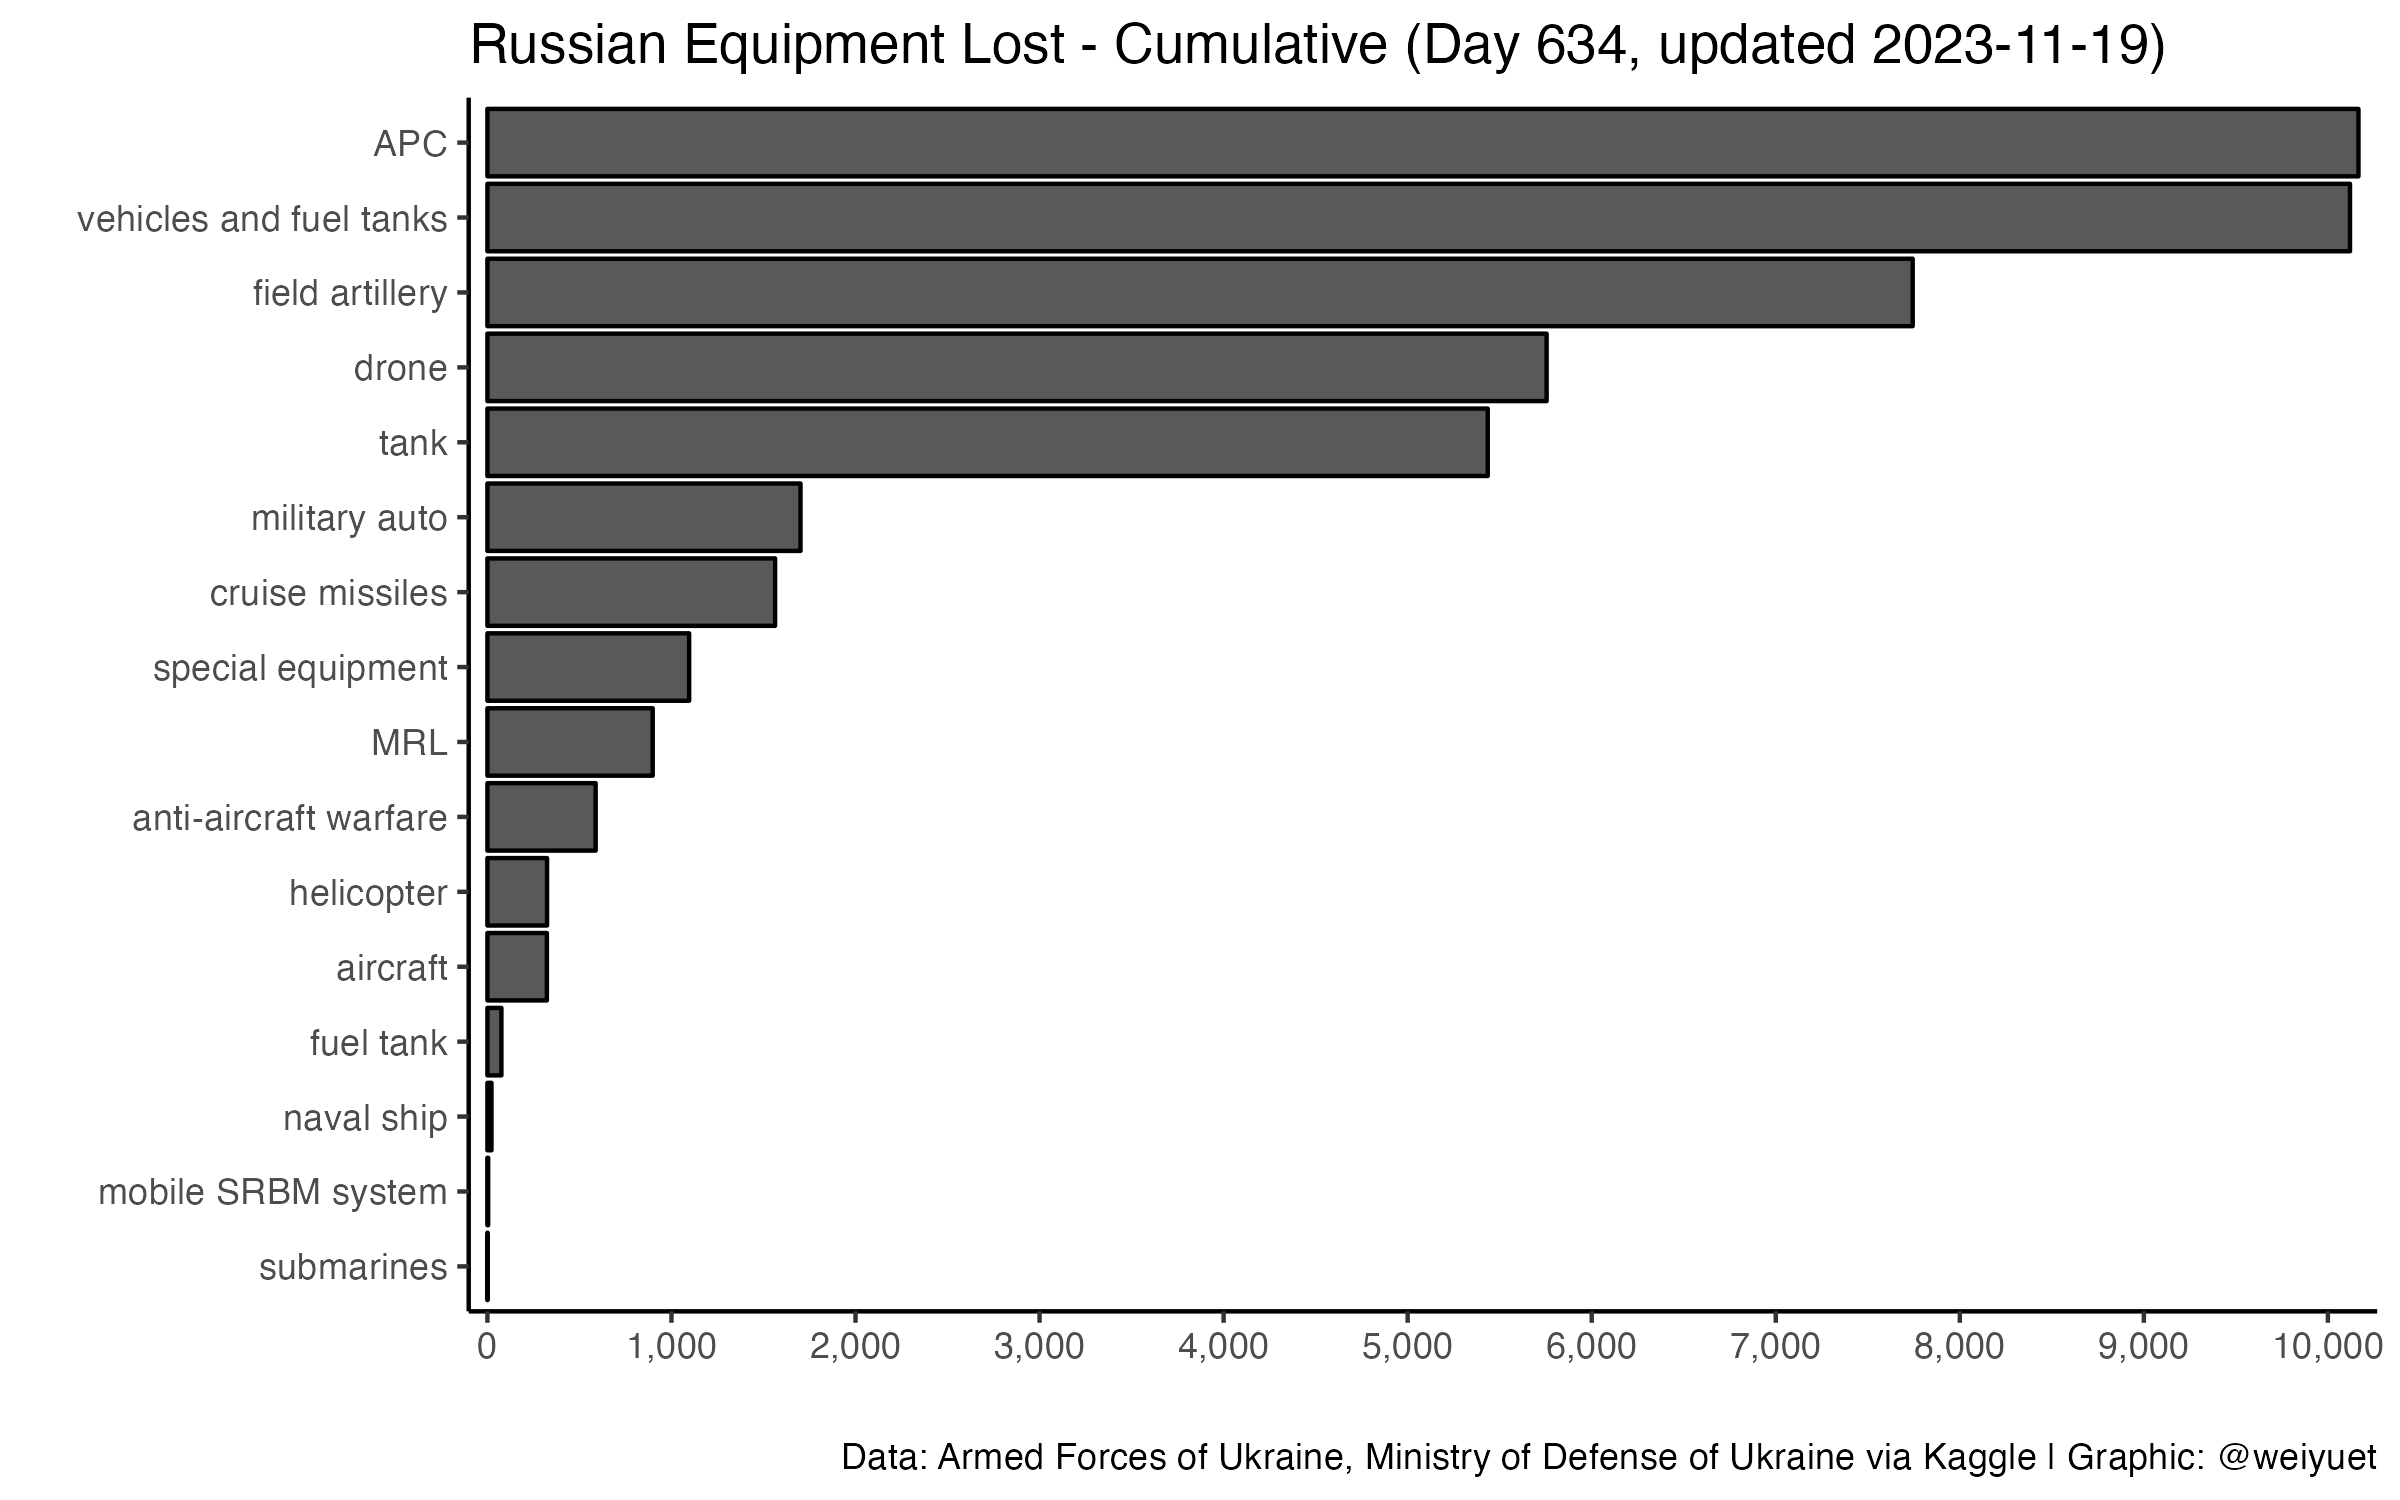
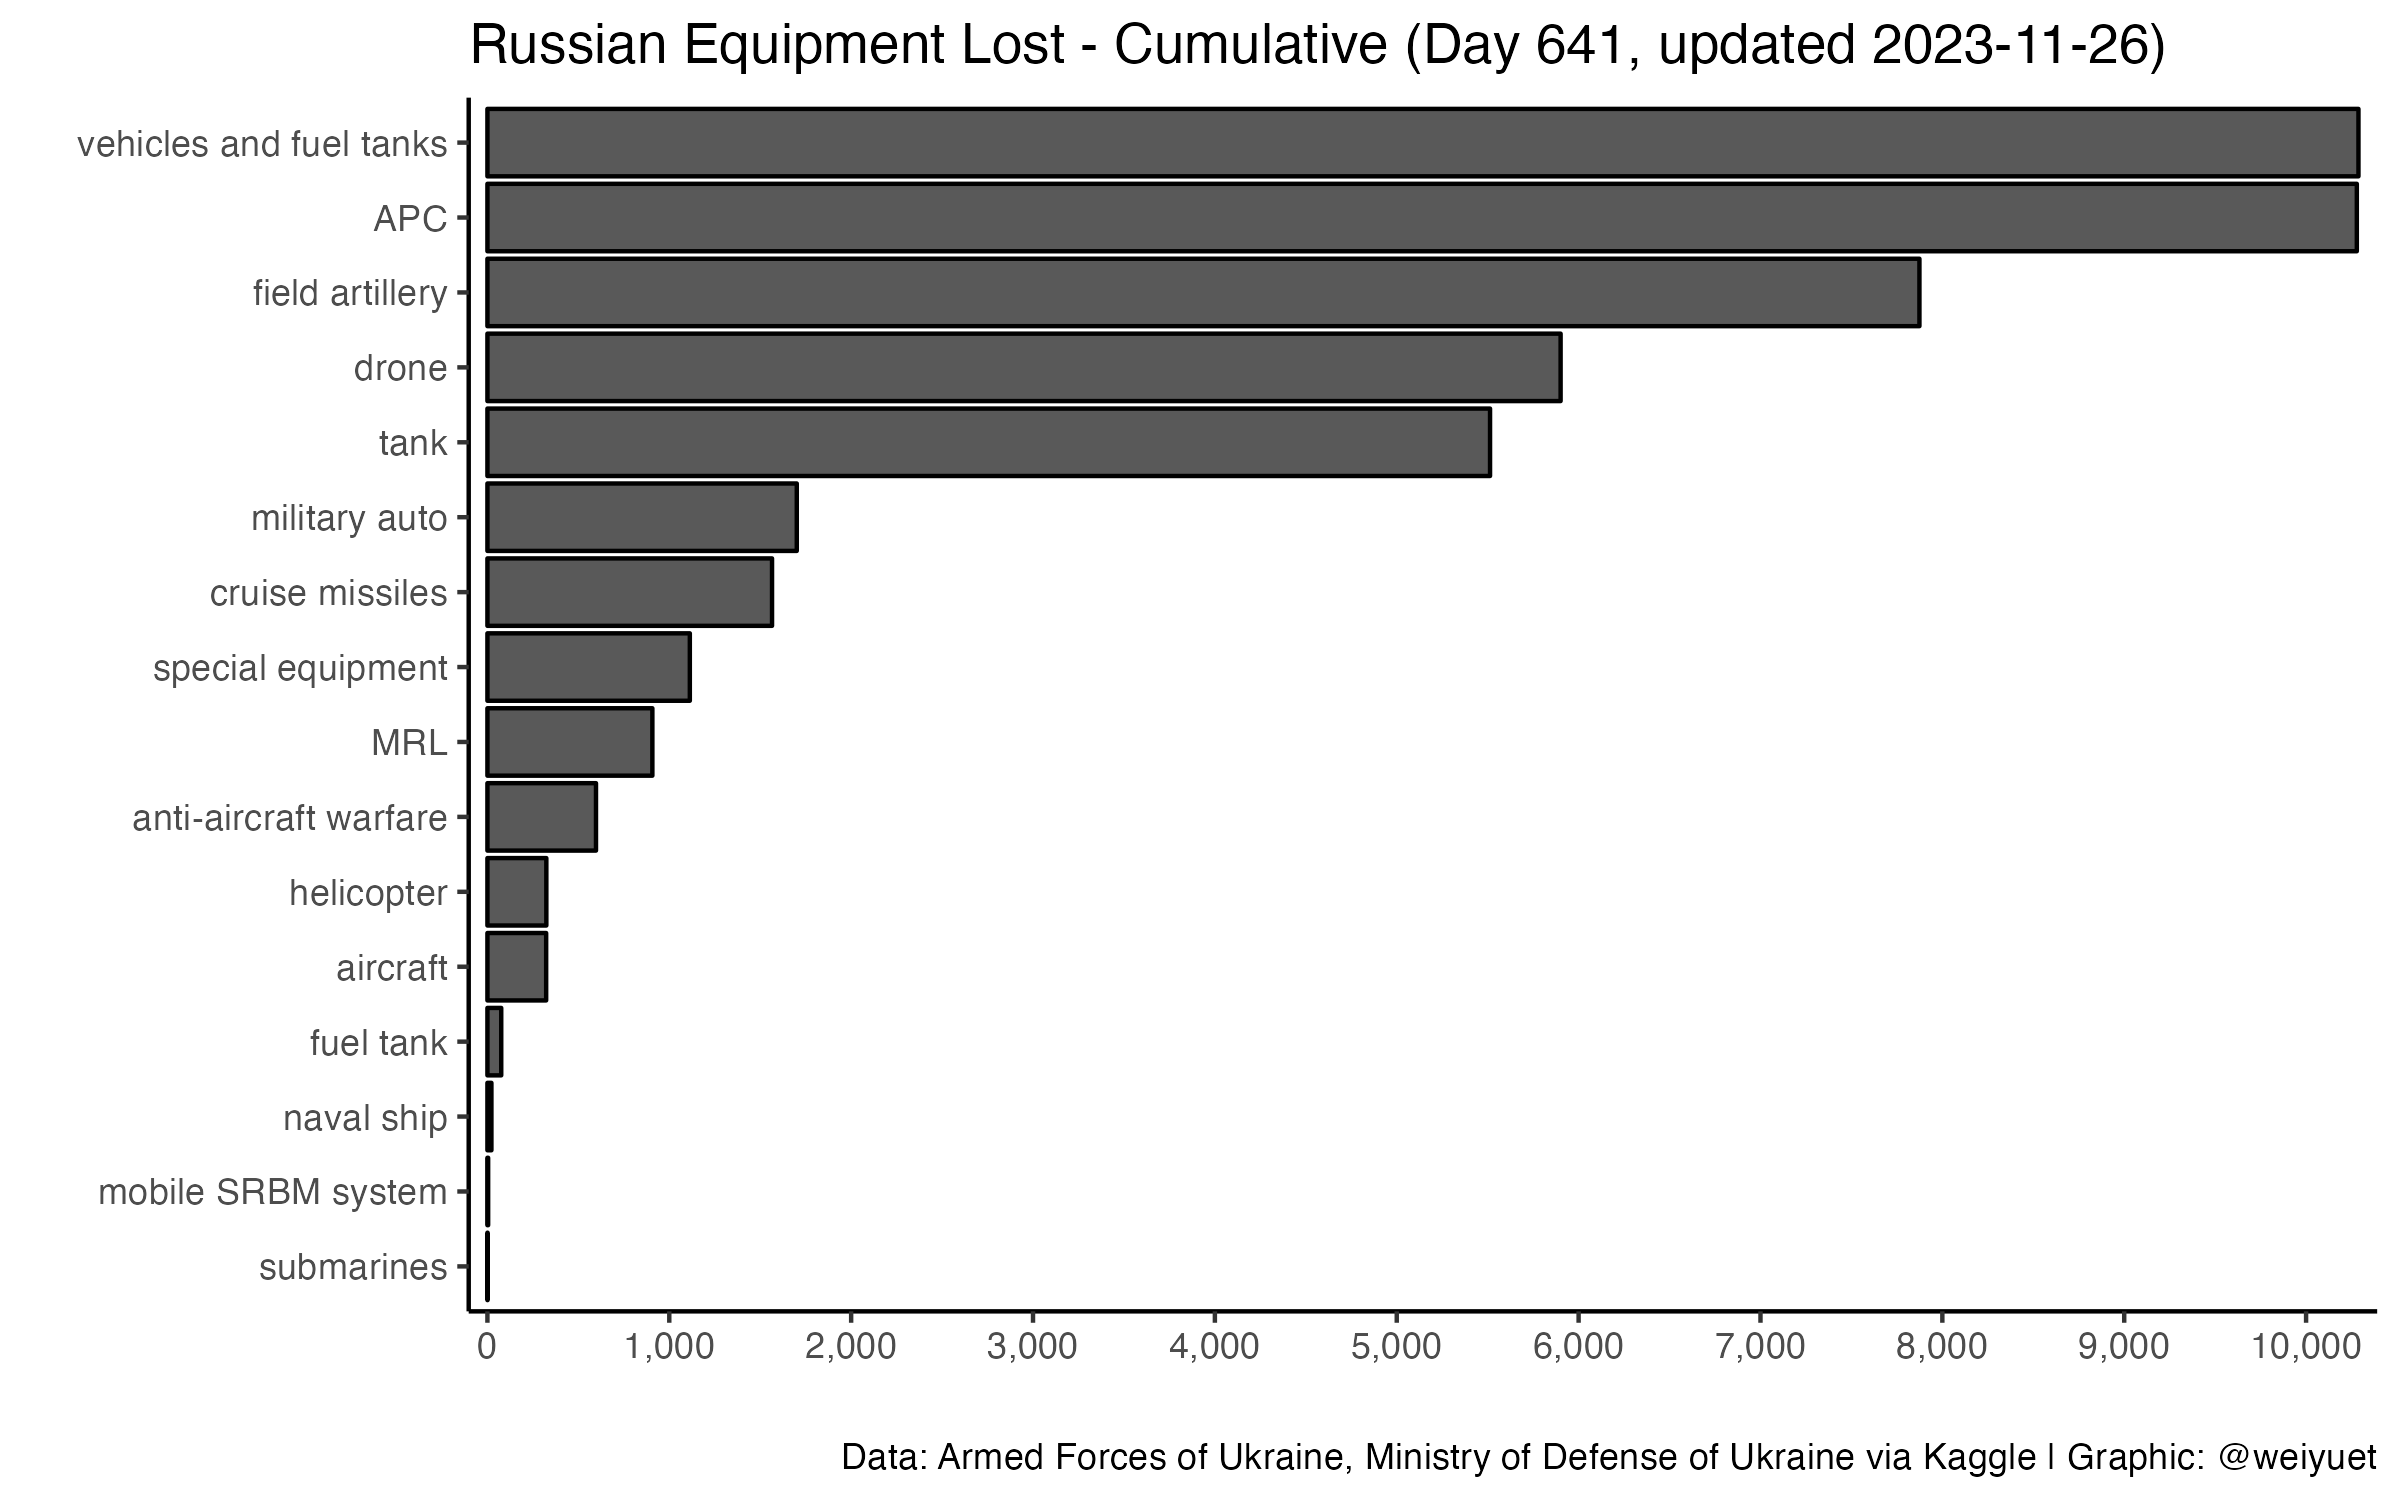
Updated 26 November

diff --git a/README.md b/README.md
@@ -6,7 +6,7 @@ Wong Wei Yuet 2022-05-26
 
   - War casualty data updated daily from [`Petro Ivanyuk's Kaggle`](https://www.kaggle.com/datasets/piterfm/2022-ukraine-russian-war). All data is official and put together by `Petro`
 
-Updated: 2023-11-19
+Updated: 2023-11-26
 
 ## Summary of Conflict
 
